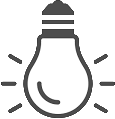
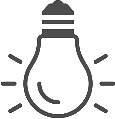
inverted images for dark mode

diff --git a/css/style.css b/css/style.css
@@ -165,6 +165,10 @@ nav {
     right: 1em;
 }
 
+html[data-theme="dark"] .toggle-light {
+    filter: invert(1);
+}
+
 .toggle-light button{
     border-style: none;
     background: none;
@@ -423,8 +427,8 @@ header img {
     background-image: url("../images/copy_icon_light.png");
 }
 
-.copy-icon::before[data-theme="dark"] {
-    background-image: url("../images/copy_icon_dark.png");
+html[data-theme="dark"] .copy-icon::before {
+    filter: invert(1);
 }
 
 .title-and-copy-holder {
@@ -555,6 +559,14 @@ html {
     width: 3em;
 }
 
+html[data-theme="dark"] .top-btn-img {
+    filter: invert(1);
+}
+
+.top-btn-img[data-theme="dark"] {
+    filter: invert(1);
+}
+
 .top-btn-link::before {
     content: "Back to top";
     position: absolute;
@@ -585,6 +597,10 @@ html {
         width: 100%;
         height: 100%;
         background: radial-gradient(rgba(255, 255, 0, 0.5), rgba(0, 0, 0, 0) 70%);
+    }
+
+    html[data-theme="dark"] .toggle-light:hover .light-div {
+        filter: invert(1);
     }
 
     .top-btn-link:hover::before, .top-btn-link:focus-visible::before {
